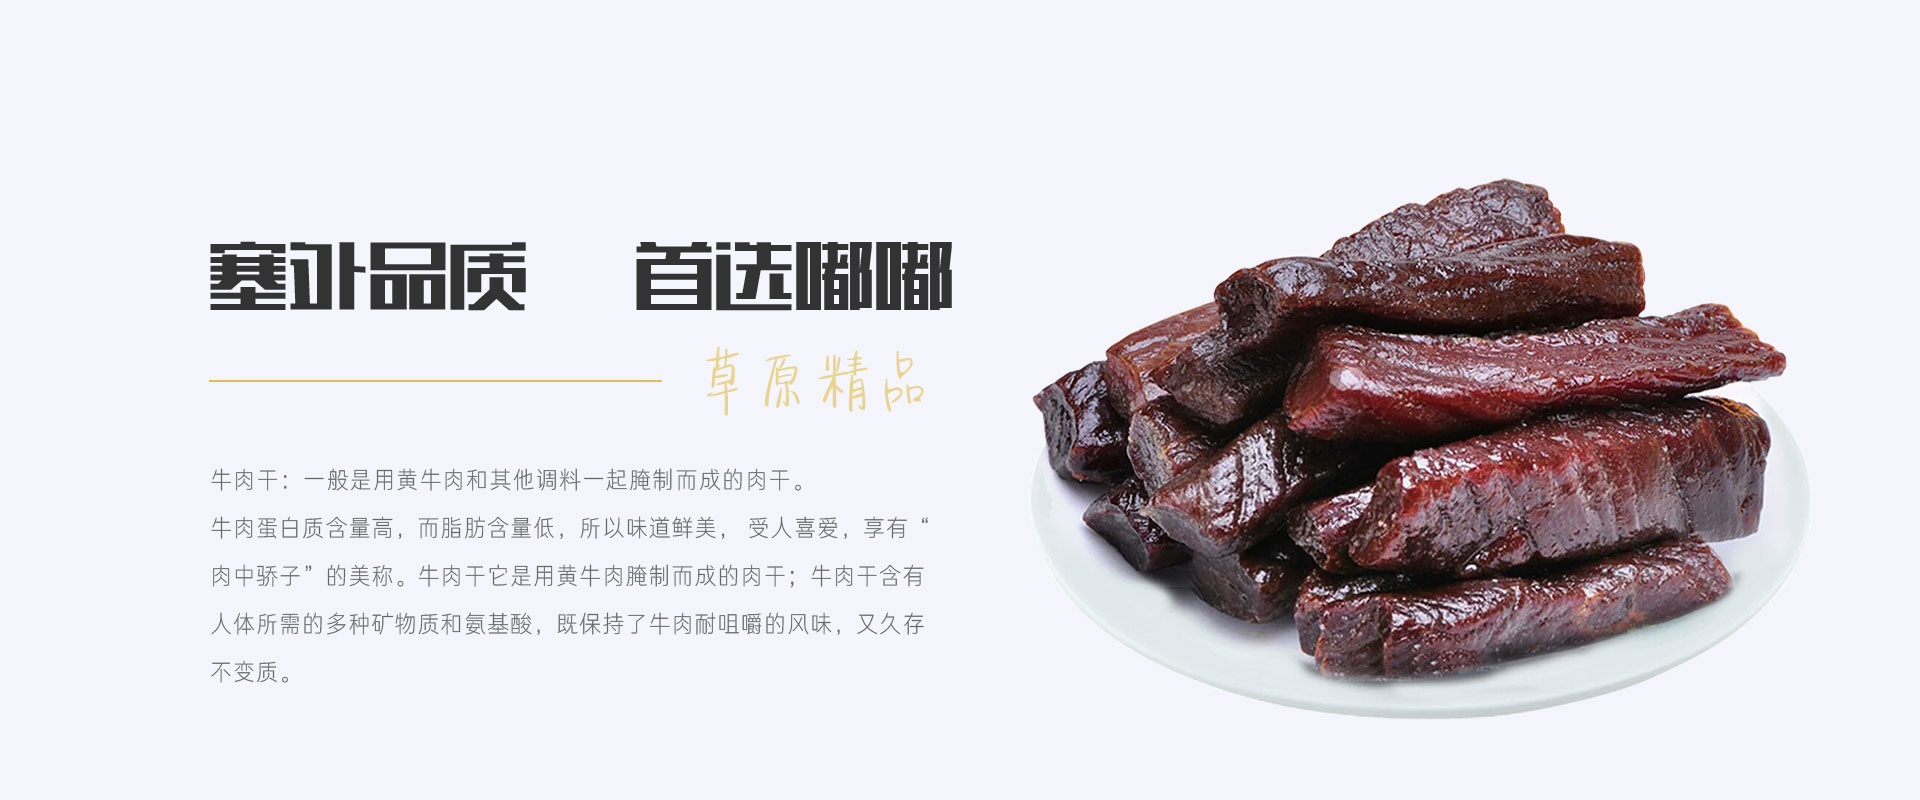
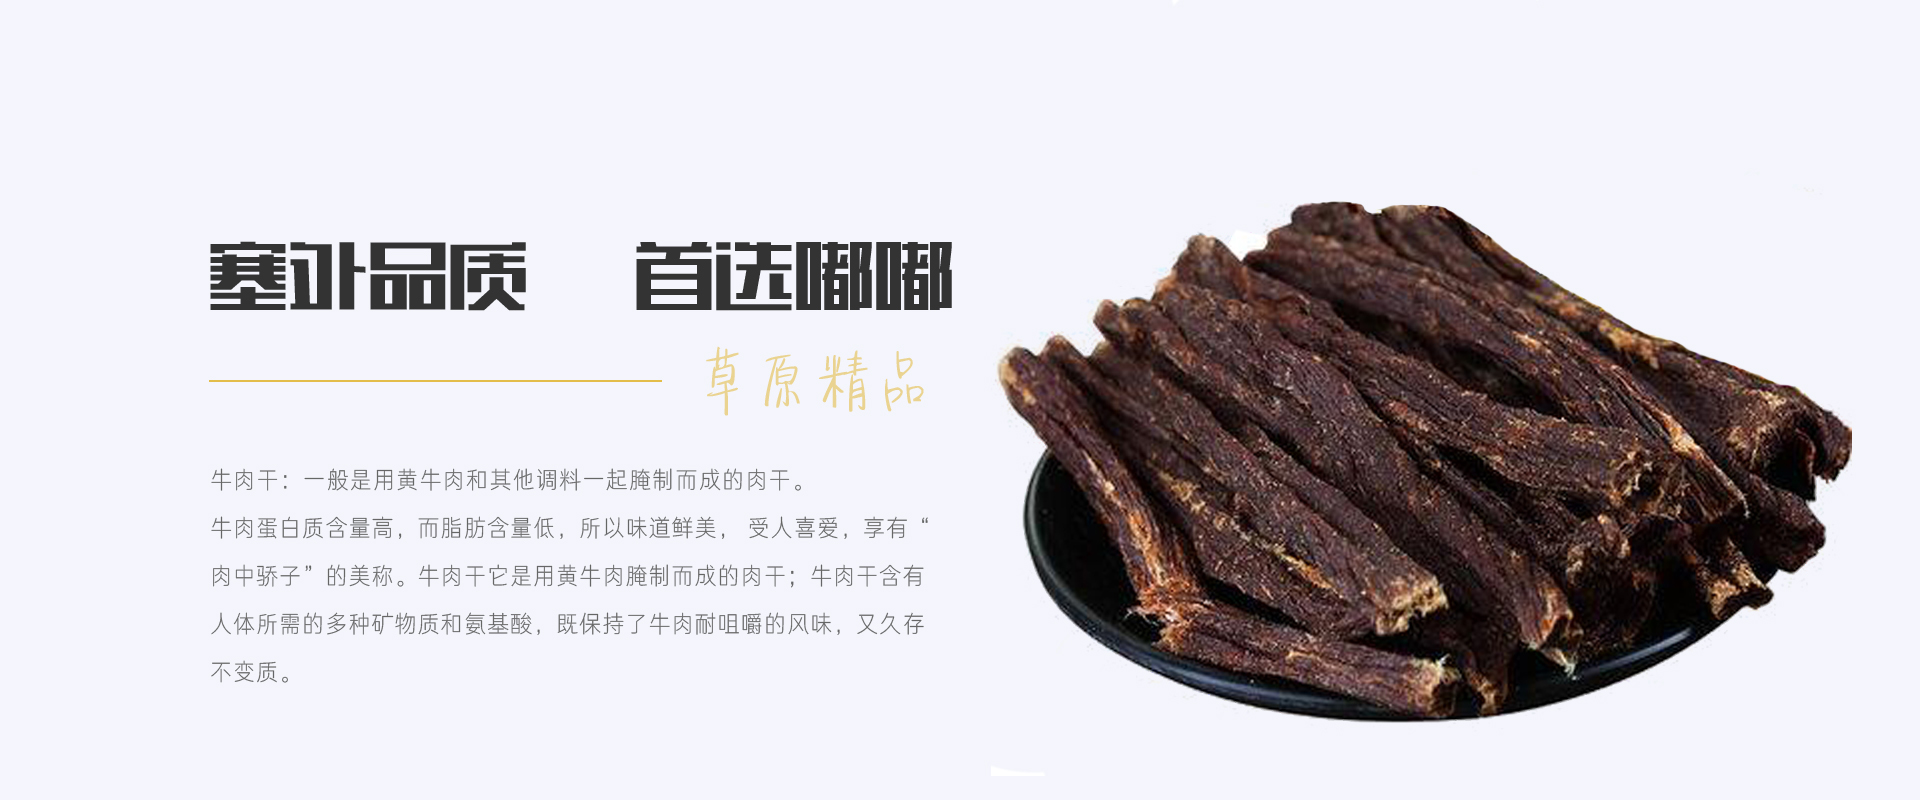
change content

Changed region(s): [[0.5, 0.2188, 0.9688, 0.9062]]

diff --git a/H5/ndd/css/pcstyle.css b/H5/ndd/css/pcstyle.css
@@ -124,8 +124,90 @@ footer{width:100%;max-width: 1920px;background: #383838;color: #fff;}
 /*.tjl>ul>li:nth-child(2n+1){margin-right: 2%;}
 .tjl>ul>li:nth-child(2n){margin-left: 2%;}*/
 .tjl>ul>li>div{width: 100%;background: #fff;overflow: hidden;}
-.tjltp{width: 300px;height: 346px;float: left;}
+.tjltp{width: 300px;height: 346px;float: left;    text-align: center;overflow: hidden;  position: relative;}
 .tjltp>img{width: 100%;height:100%;}
+
+
+.tjltp:before,
+.tjltp:after{
+    content: "";
+    display: block;
+    background: rgba(0,0,0,0.3);
+    position: absolute;
+    top: 10%;
+    left: 7%;
+    bottom: 10%;
+    right: 7%;
+    z-index: 1;
+    transform: scale(0,1);
+    transition: all 0.3s;
+}
+.tjltp:after{
+    top: 10.8%;
+    bottom: 10.8%;
+    transform: scale(1,0);
+}
+.tjltp:hover:before,
+.tjltp:hover:after{
+    transform: scale(1);
+    animation: animate 1.5s;
+}
+.tjltp:hover:before{
+    border-top: 3px solid #fff;
+    border-bottom: 3px solid #fff;
+}
+.tjltp:hover:after{
+    border-left: 3px solid #fff;
+    border-right: 3px solid #fff;
+}
+.tjltp>img{
+    width: 100%;
+    height: auto;
+    transition: all 0.3s;
+}
+.tjltp:hover>img{
+    transform: scale(1.2);
+    filter: blur(5px);
+    -moz-filter: blur(5px);
+    -webkit-filter: blur(5px);
+}
+.tjltp .box-content{
+    position: absolute;
+    top: 10%;
+    left: 10%;
+    bottom: 10%;
+    right: 10%;
+    z-index: 2;
+    transition: all 0.3s;
+}
+.tjltp .box-content>img{
+    width: 100%;height: 100%;opacity: 0;transition: all 0.3s;
+}
+.tjltp:hover .box-content>img{
+    width: 80%;height: 80%;margin: 10% auto;opacity: 1;
+}
+
+@keyframes animate{
+    0%{opacity: 1;}
+    100%{opacity: 1;}
+}
+@keyframes animate-hover{
+    0% {box-shadow: 0 0 0 10px rgba(255,255,255,0.3);}
+    50% {box-shadow: 0 0 0 5px rgba(255,255,255,0.3);}
+    100% {box-shadow: 0 0 0 0 rgba(255,255,255,0.3);}
+}
+@media only screen and (max-width:990px){
+    .box{ margin-bottom: 30px; }
+    .box .box-content{ padding: 10px; }
+    .box .description{ margin-bottom: 10px; }
+}
+@media only screen and (max-width:479px){
+    .box .title{ margin: 0; }
+}
+
+
+
+
 .tjlsr{width: 68%;float: left;}
 .tjltt{width: 82%;line-height: 36px;/*padding: 80px 0 44px 0;*/padding: 46px 0 28px 0;font-size: 36px;color: #333;text-align: left;}
 .tjlct{width: 82%;line-height: 36px;height: 144px;font-size: 20px;color: #333;text-align: left;}

diff --git a/H5/ndd/products.html b/H5/ndd/products.html
@@ -66,13 +66,7 @@
         });
     </script>
 
-    <div class="msnavi">
-        <ul>
-            <li class="nmcheck">牛肉类</li>
-            <li>奶制品</li>
-            <li>酒类</li>
-        </ul>
-    </div>
+
 
     <div class="plist">
         <ul>
@@ -84,7 +78,12 @@
                         <!--88-->
                         <li>
                             <div>
-                                <div class="tjltp"><img src="img/fgnrg88.jpg" alt=""></div>
+                                <div class="tjltp">
+                                    <img src="img/fgnrg88.jpg" alt="">
+                                    <div class="box-content">
+                                        <img src="img/gynrg.jpg" alt="">
+                                    </div>
+                                </div>
                                 <div class="tjlsr">
                                     <div class="tjltt">风干牛肉干桶装</div>
                                     <div class="tjlct">

diff --git a/H5/ndd/ntest.html b/H5/ndd/ntest.html
@@ -1,0 +1,17 @@
+<!DOCTYPE html >
+<html >
+    <head>
+        <meta charset=utf-8" />
+        <title>test video</title>
+        <script src="js/over-resize.js"></script>
+        <style>
+            *{margin:0 auto;padding: 0;}
+            .ai{width:90%;height: 12rem;}
+        </style>
+    </head>
+    <body>
+        <div class="ai">
+            <iframe frameborder="0" width="100%" height="100%" src="https://v.qq.com/iframe/player.html?vid=u06491vz8fu&tiny=0&auto=0" allowfullscreen></iframe>
+        </div>
+    </body>
+</html>
